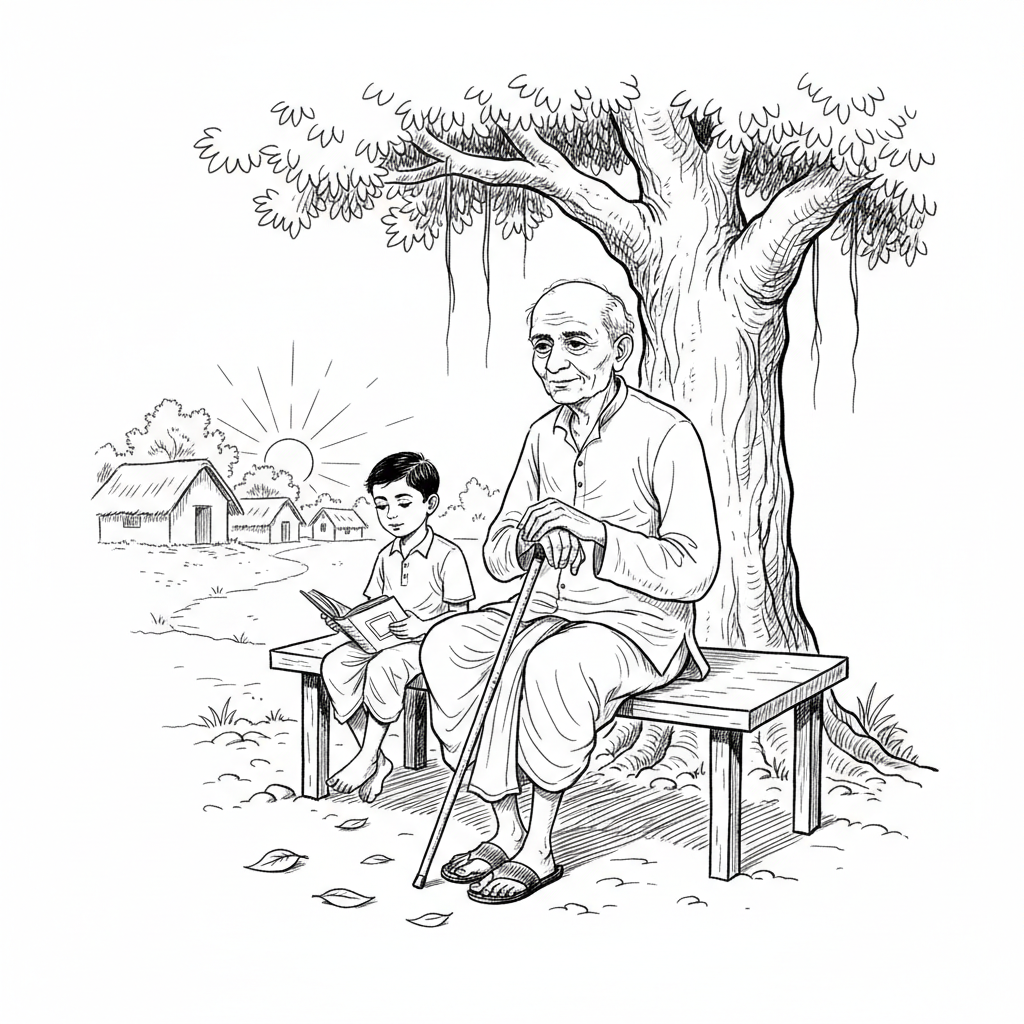
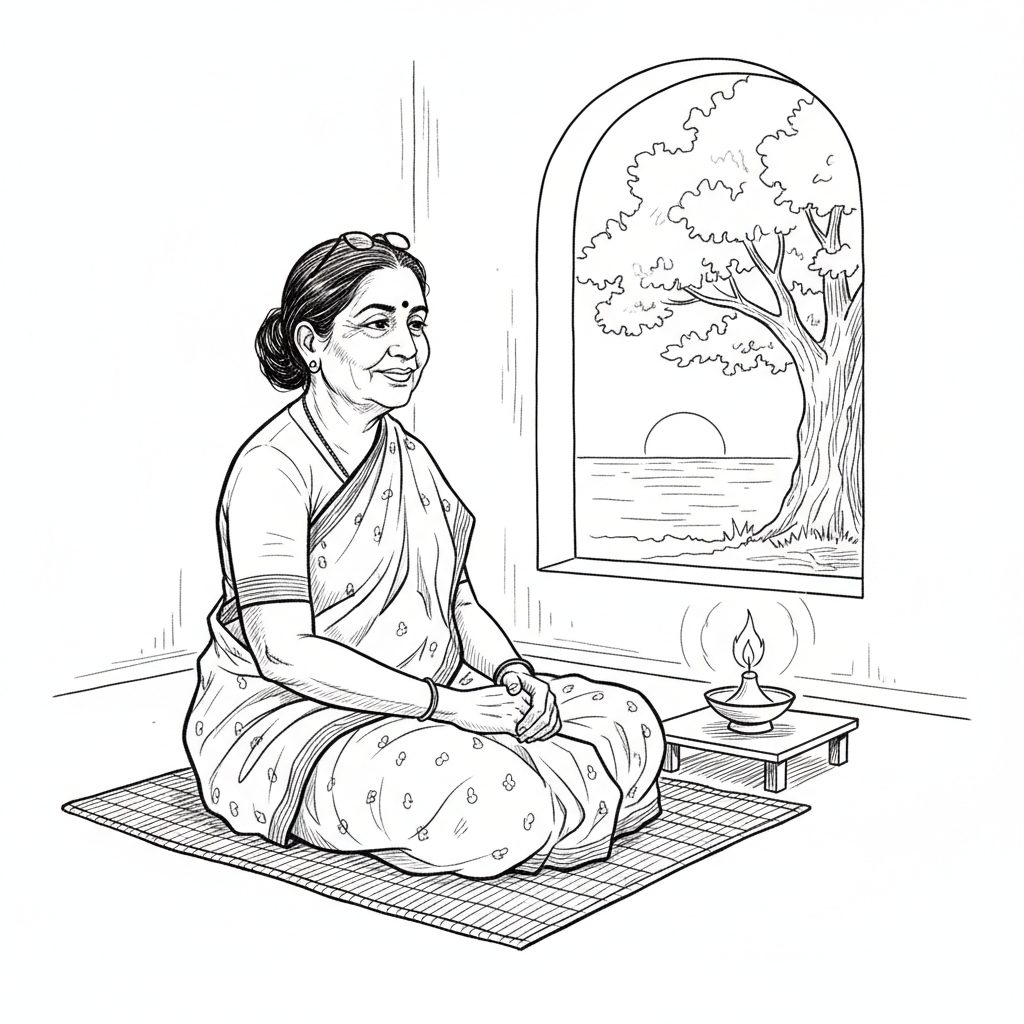
Update AI prompt to generate illustrations featuring an Indian woman
Refine the AI prompt in `server/ai.ts` to ensure generated illustrations feature an Indian woman, defaulting to a 60-year-old but adjusting age based on post content, and reinforce the exclusion of text.

Replit-Commit-Author: Agent
Replit-Commit-Session-Id: 123c0bde-375b-4446-b2c4-d533a0abdee3
Replit-Commit-Checkpoint-Type: full_checkpoint
Replit-Commit-Event-Id: 39437c82-0e6a-4e41-a962-cfcabd3fdf88
Replit-Commit-Screenshot-Url: https://storage.googleapis.com/screenshot-production-us-central1/882e1f2e-6b00-4abc-94b7-0683300e95aa/123c0bde-375b-4446-b2c4-d533a0abdee3/lz12mPm
Replit-Helium-Checkpoint-Created: true

Changed region(s): [[0.0625, 0.0625, 0.9062, 0.9375], [0.0625, 0.6562, 0.125, 0.6875], [0.1875, 0.125, 0.2188, 0.1562]]

diff --git a/server/ai.ts b/server/ai.ts
@@ -256,13 +256,15 @@ export async function generateIllustration(postId: number, content: string, titl
 
   const prompt = `Create a simple black ink line drawing illustration on a pure white background, in the style of RK Laxman's illustrations for Malgudi Days and The Common Man cartoons.
 
+The protagonist (if the scene calls for a human figure) must be an Indian woman. By default she is around 60 years old — warm face, sari or salwar, reading glasses perhaps pushed up on her head, the quiet dignity of a grandmother. However, if the blog post clearly describes a memory from a younger age (childhood, college, early marriage, young motherhood), draw her at that younger age instead. Infer the right age from the content.
+
 Style rules:
 - Clean black pen-and-ink outlines only, no color, no gray tones
 - Minimal crosshatching for shading, mostly clean expressive lines
 - Warm, observational, slice-of-life tone
-- Indian setting, characters, and objects when relevant
+- Indian setting, characters, and objects
 - Simple composition, not cluttered — focus on one quiet moment or scene
-- No text, no captions, no labels, no speech bubbles
+- Absolutely no text, no captions, no labels, no speech bubbles, no words on any object
 - White background, nothing else
 - Evocative and gentle, like a sketch in a personal diary
 
